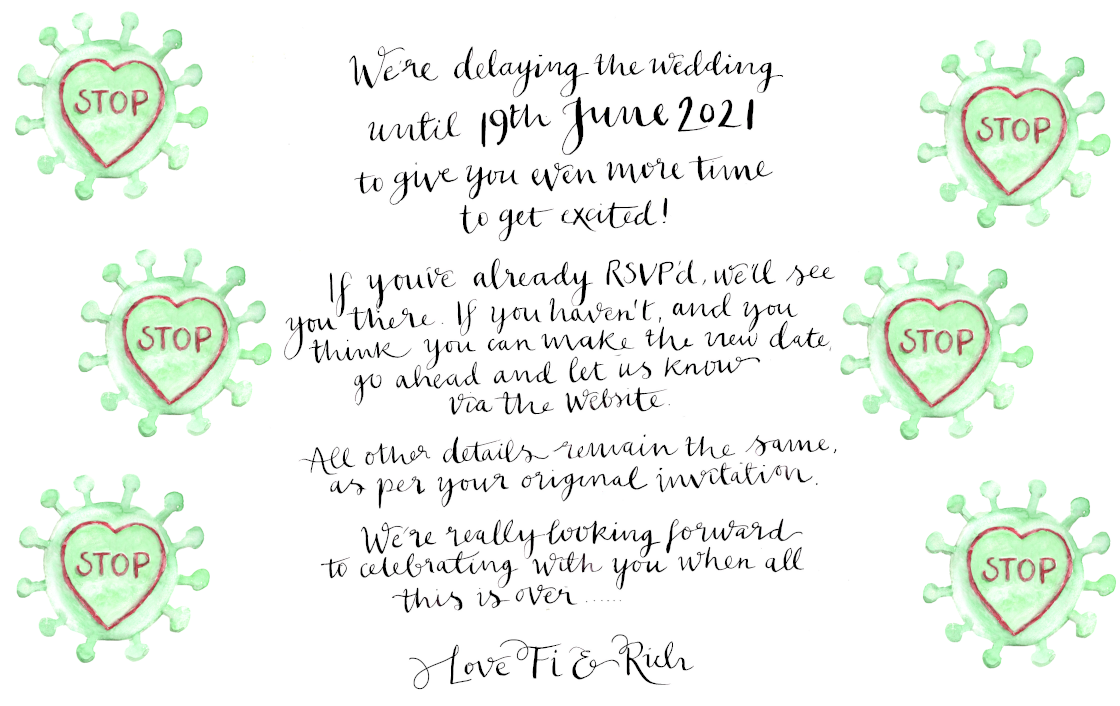
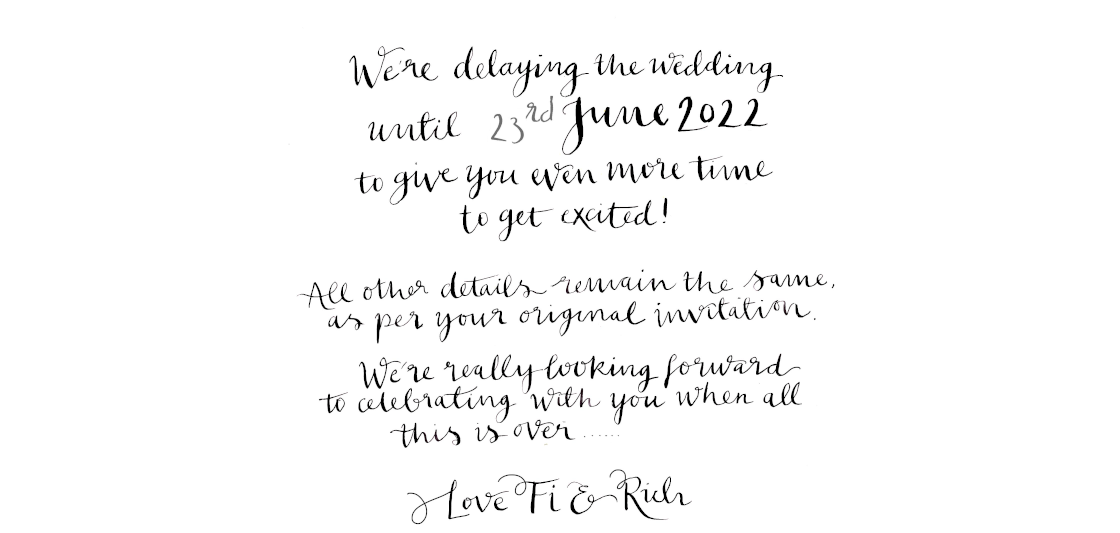
Update for 2022 rescheduling

diff --git a/index.html b/index.html
@@ -69,7 +69,7 @@
     <img src="DetailsRSVPPost.png" class="img-responsive margin" style="display:inline" alt="RSVP by Post Fiona Hansell 22 The Beeches, Woodhead Drive, Cambridge, CB4 1FY">
   </div>
   <div>
-    <h3 class="margin"><p style="font-size:64px">Please RSVP by 19th April 2021</p></h3>
+    <h3 class="margin"><p style="font-size:64px">Please RSVP by 19th April 2022</p></h3>
   </div>
 </div>
 
